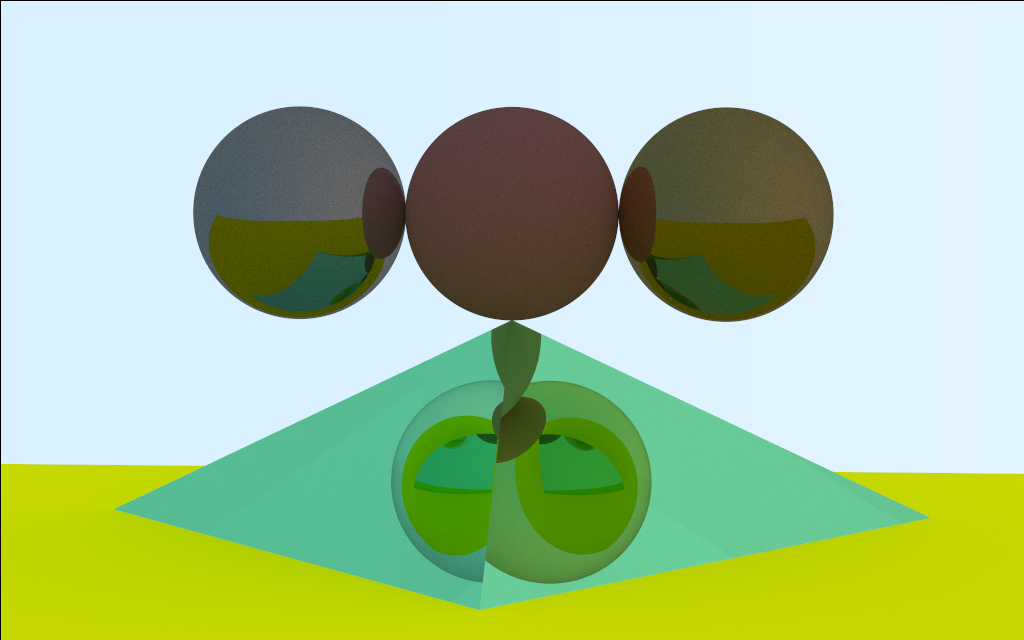
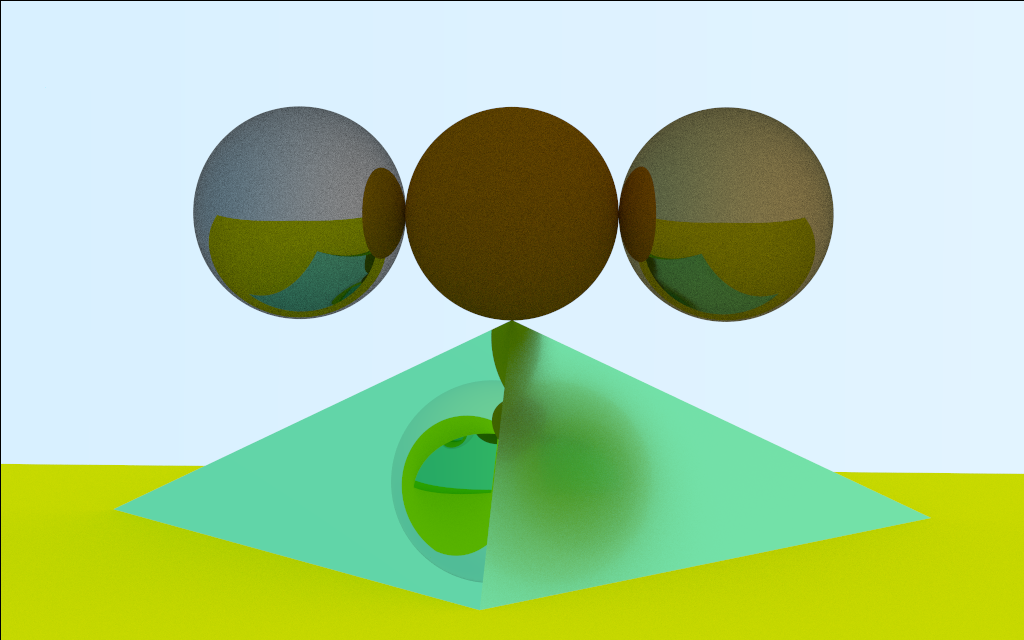
Added fuzzyness to metals.

Changed region(s): [[0.125, 0.1562, 0.8125, 0.9375], [0.6875, 0.7188, 0.9062, 0.875]]

diff --git a/src/main.cpp b/src/main.cpp
@@ -30,9 +30,9 @@ Camera camera(cam_vec, 0.1, 65*PI/180, 1024, 16/10.);
 
 // Create the materials
 auto material_ground = std::make_shared<Lambertian>(Colour(0.8, 0.8, 0.0));
-auto material_center = std::make_shared<Lambertian>(Colour(0.7, 0.3, 0.3));
-auto material_left   = std::make_shared<Metal>(Colour(0.8, 0.8, 0.8));
-auto material_right  = std::make_shared<Metal>(Colour(0.8, 0.6, 0.2));
+auto material_center = std::make_shared<Lambertian>(Colour(0.7, 0.3, 0.0));
+auto material_left   = std::make_shared<Metal>(Colour(0.8, 0.8, 0.8), 0.0);
+auto material_right  = std::make_shared<Metal>(Colour(0.8, 0.6, 0.2), 0.0);
 
 // Create the objects
 Hittable_list scene;
@@ -47,7 +47,8 @@ scene.add(std::make_shared<Sphere>(Triplet(0.0,   0.0,    1.0),   0.5, material_
 scene.add(std::make_shared<Sphere>(Triplet(0.0,  -1.0,    1.0),   0.5, material_right));
 
 // Pyramid
-  auto mirror   = std::make_shared<Metal>(Colour(0.2, 0.8, 0.4));
+  auto mirror   = std::make_shared<Metal>(Colour(0.2, 0.8, 0.4), 0.0);
+  auto mirror_fuzzy   = std::make_shared<Metal>(Colour(0.2, 0.8, 0.4), 0.3);
   // basis
   Triplet B1(-2.0,  0.0, -0.5);
   Triplet B2( 0.5, -2.0, -0.5);
@@ -57,14 +58,14 @@ scene.add(std::make_shared<Sphere>(Triplet(0.0,  -1.0,    1.0),   0.5, material_
   Triplet T( 0.0, 0.0, 0.5);
 
   scene.add(std::make_shared<Triangle>(B1, B3, B2, mirror));
-  scene.add(std::make_shared<Triangle>(B1, B2, T, mirror));
+  scene.add(std::make_shared<Triangle>(B1, B2, T, mirror_fuzzy));
   scene.add(std::make_shared<Triangle>(B2, B3, T, mirror));
   scene.add(std::make_shared<Triangle>(B3, B1, T, mirror));
 
 
 // Render
 const unsigned int max_depth=50;
-const unsigned int ray_per_pixel=100;
+const unsigned int ray_per_pixel=30;
 
 // Multi-threading
 int n_procs = (int)std::thread::hardware_concurrency();
@@ -83,7 +84,7 @@ else{
 
 // Save Image
 const std::string filename = "Image.ppm";
-//camera.save_image(filename);
+camera.save_image(filename);
 
 return 0;
 }

diff --git a/src/Material.cpp b/src/Material.cpp
@@ -14,11 +14,11 @@ bool Lambertian::scatter(const Vector3 &, const hit_record &rec_, Colour &attenu
   return 1;
 }
 
-Metal::Metal(const Colour &c_) : albedo(c_) {}
+Metal::Metal(const Colour &c_, double fuzz_) : albedo(c_), fuzziness(fuzz_) {}
 
 bool Metal::scatter(const Vector3 &ray_, const hit_record &rec_, Colour &attenuation_, Vector3 &scattered_) const {
   scattered_ = reflect(ray_, rec_.n);
-  scattered_.start = rec_.p;
+  scattered_ = Vector3(rec_.p, rec_.p + scattered_.unit() + random_vector_sphere(this->fuzziness) );
   attenuation_ = albedo;
-  return (dot(scattered_,rec_.n) > 0);
+  return (dot(scattered_, rec_.n) > 0);
 }

diff --git a/src/Utilities.cpp b/src/Utilities.cpp
@@ -36,6 +36,16 @@ Triplet random_vector_unit_half_sphere(Triplet normal_){
   return N_rot;
 }
 
+Triplet random_vector_sphere(double radius_){
+  // Generate the rotation angles
+  double phi = 2*PI*my_rand();
+  double theta = acos(1 - 2*my_rand());
+  double r = radius_*my_rand();
+
+  Triplet rand_vector(sin(theta)*cos(phi), sin(theta)*sin(phi), cos(theta));
+  return r*rand_vector;
+}
+
 Colour calculate_colour(const Vector3 &ray_, const Hittable &scene_, int depth_){
   if (depth_<=0)
     return Colour(0,0,0);

diff --git a/include/Material.h b/include/Material.h
@@ -22,8 +22,9 @@ class Lambertian : public Material {
 class Metal : public Material {
   private:
     Colour albedo;
+    double fuzziness;
 
   public:
-    Metal(const Colour &c_);
+    Metal(const Colour &c_, double fuzz_);
     virtual bool scatter(const Vector3 &ray_, const hit_record &rec_, Colour &attenuation_, Vector3 &scattered_) const override;
 };

diff --git a/include/Utilities.h b/include/Utilities.h
@@ -6,6 +6,8 @@
 
 Triplet random_vector_unit_half_sphere(Triplet normal_);
 
+Triplet random_vector_sphere(double radius_);
+
 Colour calculate_colour(const Vector3 &ray_, const Hittable &scene_, int depth_);
 
 void gamma_correction(Colour &colour_, double gamma_);

diff --git a/README.md b/README.md
@@ -1,7 +1,7 @@
 # Ray tracing
 In dev. Obviously.
 
-Example of a rendered sphere and triangle using ray-tracing
+Example of rendered spheres and a pyramid using ray-tracing
 ![](rendered/Image.png)
 
 # References
@@ -16,9 +16,9 @@ Example of a rendered sphere and triangle using ray-tracing
 
 # TODO
 - [ ] Transparency
-- [ ] Multi-threading
 - [ ] Use R-tree?
 - [ ] Read Blender OBJ files
+- [ ] Texture on objects
 - [ ] Collision between rays and general objects.
 - [ ] Parsing inputs: https://www.cplusplus.com/articles/DEN36Up4/
 
